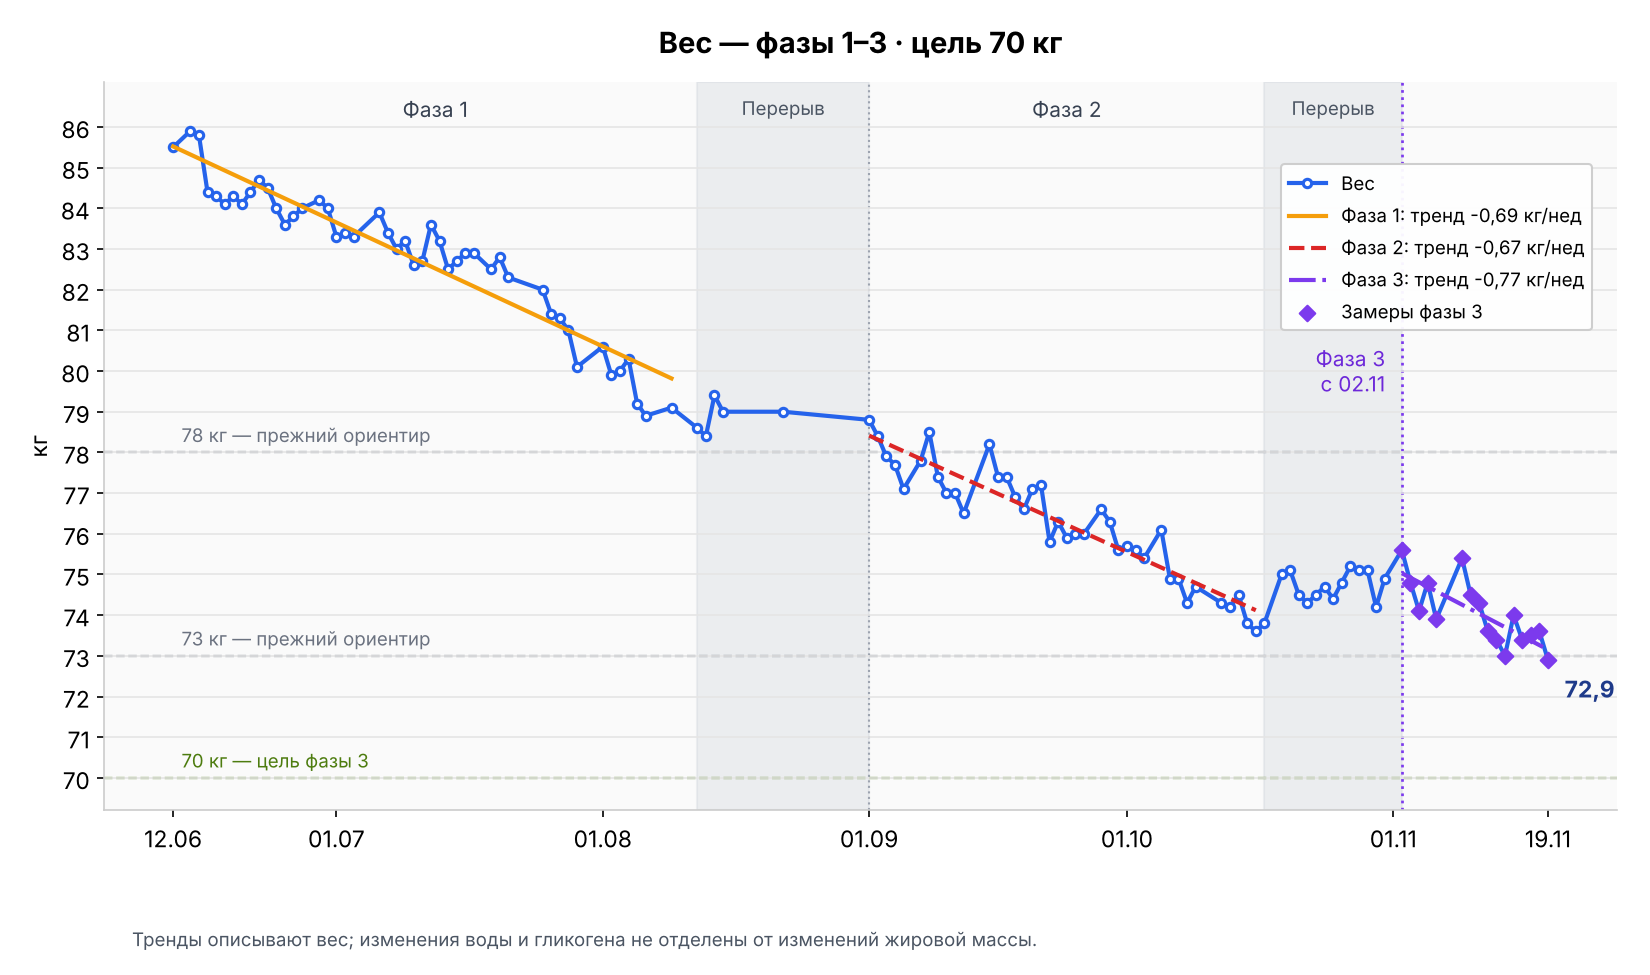
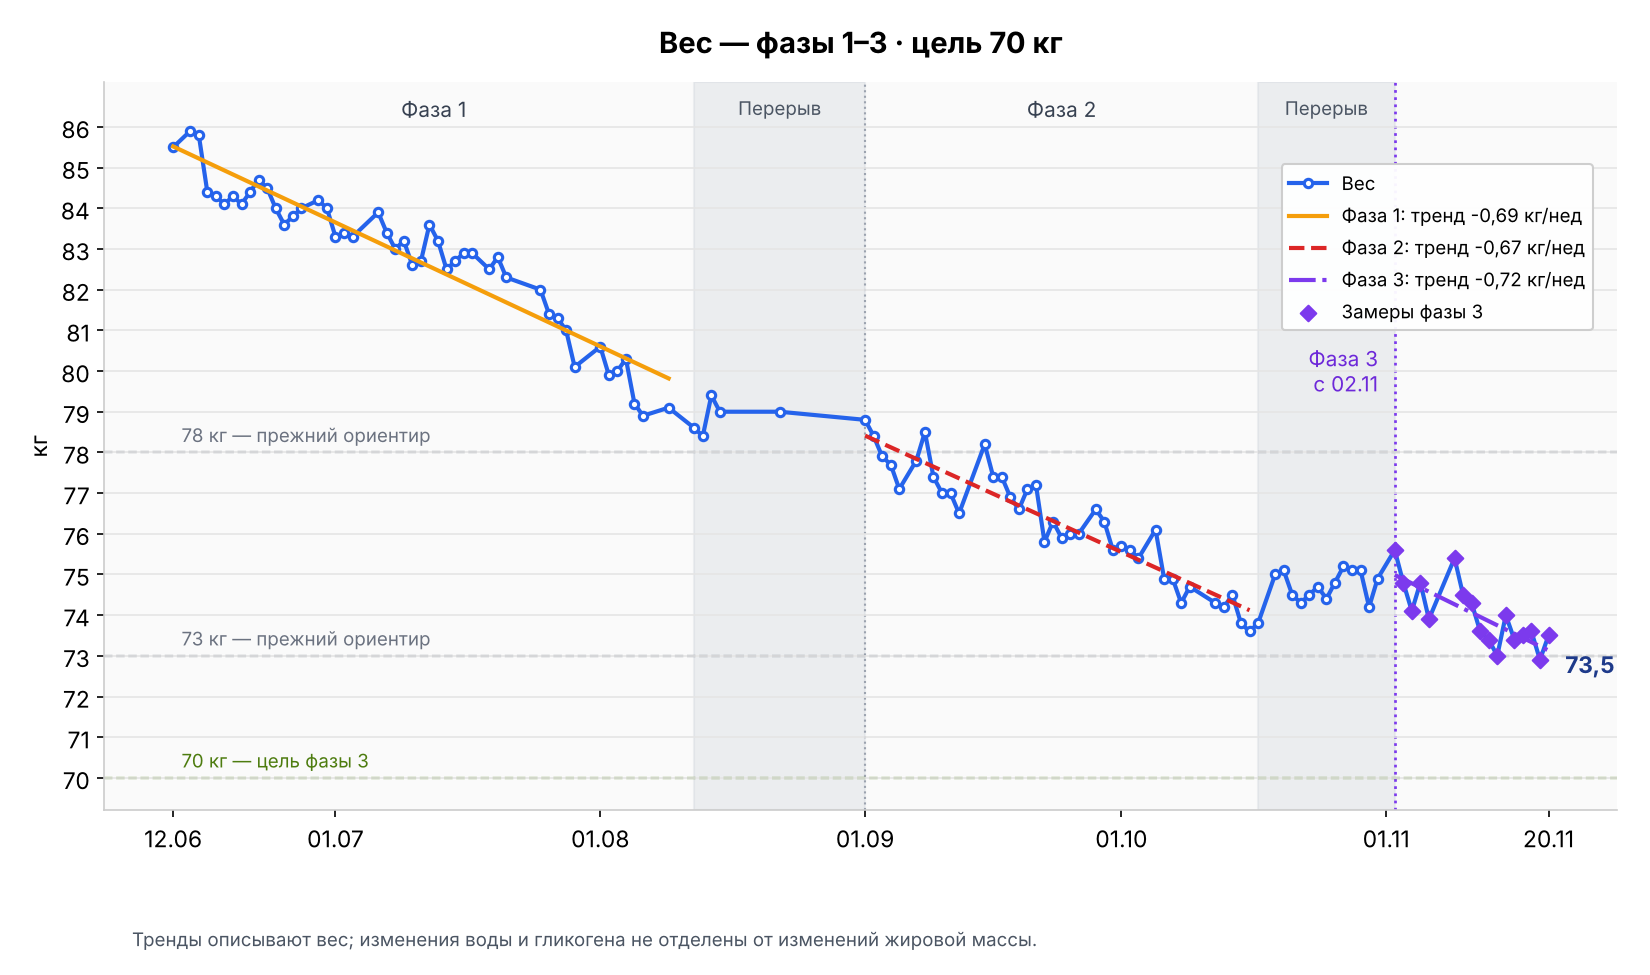
Вес 20.11: 73,5 кг; закрыт день 19.11
+0,6 кг к 19.11 — вода после тренировки и большого объёма еды.
День 19.11 отмечен завершённым (~1902 ккал). Графики перестроены.

Claude-Session: https://claude.ai/code/session_01BcPogZpufV1jxrQv9Sbikk

diff --git a/health/журнал-еды.md b/health/журнал-еды.md
@@ -11,7 +11,7 @@
 
 | Дата | Кратко | Ккал | Белок |
 |---|---|---|---|
-| 19.11 (чт) | фаза 3, день 18 · цель 1900 ккал · утром 72,9 (минимум плана) · 🏋 зал, грудь + бицепс, лёгкая неделя (по 20 повторений) · завтрак мандарины 162 г + яблоки 242 г + сливы 208 г + 2 варёных яйца + варёные брокколи, цветная капуста и морковь 323 г / перекус молоко 1,5% 200 г + мандарины 84 г + сливы 193 г / сливы 200 г + курица с прованскими травами 200 г / обезжиренный творог 174 г / ещё варёные овощи 331 г / молоко 1,5% 150 г / ужин куриное филе 200 г + яблоки 285 г / овощной микс 318 г + ещё 258 г (день идёт) | ~1902＋ | ~179＋ г |
+| 19.11 (чт) | фаза 3, день 18 · цель 1900 ккал · утром 72,9 (минимум плана) · 🏋 зал, грудь + бицепс, лёгкая неделя (по 20 повторений) · завтрак мандарины 162 г + яблоки 242 г + сливы 208 г + 2 варёных яйца + варёные брокколи, цветная капуста и морковь 323 г / перекус молоко 1,5% 200 г + мандарины 84 г + сливы 193 г / сливы 200 г + курица с прованскими травами 200 г / обезжиренный творог 174 г / ещё варёные овощи 331 г / молоко 1,5% 150 г / ужин куриное филе 200 г + яблоки 285 г / овощной микс 318 г + ещё 258 г · день завершён, ровно в цель | ~1902 | ~179 г |
 | 18.11 (ср) | фаза 3, день 17 · цель 1900 ккал · утром 73,6 · [Сбер] завтрак варёная грудка 344 г + дыня 334 г + хрен 1 ч. л. / сливки 10% 20 г + ещё 40 г / [Делимарше] суп из кабачков с тофу + кабачки с морковью и карри + индейка с шалфеем + курица в кокосовом молоке + апельсины и мандарины 294 г / [ВиТ] капучино 300 мл / ужин яблоки 418 г + курица с прованскими травами 200 г + брокколи и цветная капуста 314 г / молоко 1,5% 100 г · день завершён, ровно в цель | ~1898 | ~222 г |
 | 17.11 (вт) | фаза 3, день 16 · цель 1900 ккал · утром 73,5 · 🏋 зал, спина + трицепс, лёгкая неделя цикла (по 20 повторений) · завтрак овощная смесь «Сеул» 350 г + варёные яйца 180 г + обезжиренный творог 179 г + молоко 1,5% 105 г / ещё молоко 1,5% 100 г / обед мандарины 199 г + сливы 82 г + яблоки 238 г + овощная смесь 400 г + курица с прованскими травами 200 г / молоко 1,5% 78 г / ужин курица су-вид 193 г + брокколи и цветная капуста 400 г + яблоки 200 г + апельсины 188 г + 2 варёных яйца / молоко 1,5% 110 г · день завершён, +72 к цели | ~1972 | ~205 г |
 | 16.11 (пн) | фаза 3, день 15 · цель 1900 ккал · утром 73,4 · завтрак яблоки 124 г + мексиканская смесь 400 г + курица с прованскими травами 213 г + апельсин 179 г + греческий йогурт 65 г / молоко 1,5% 46 г / поздний завтрак мандарины 235 г + яблоки 298 г + сливы 211 г / ещё молоко 1,5% 98 г / обед мандарины 254 г + рагу из 8 овощей 400 г + апельсин 207 г + курица с прованскими травами 201 г / ужин мандарины 111 г + апельсины 139 г + яблоки 212 г + сливы 212 г / молоко 1,5% 110 г · день завершён, ровно в цель | ~1903 | ~135 г |
@@ -165,7 +165,7 @@
 
 ## 19 ноября (чт) — фаза 3, день 18 · утром 72,9
 
-День в процессе. **Цель — 1900 ккал** (обычный день). Рабочий ориентир БЖУ: **Б 150 (140–160) / Ж 60 / У 190 г**. Тренировка в зале: грудь + бицепс, лёгкая неделя волнового цикла — детали в [журнале тренировок](тренировки.md).
+День завершён. **Цель — 1900 ккал** (обычный день). Рабочий ориентир БЖУ: **Б 150 (140–160) / Ж 60 / У 190 г**. Тренировка в зале: грудь + бицепс, лёгкая неделя волнового цикла — детали в [журнале тренировок](тренировки.md).
 
 | Приём | Что | Ккал | Б | Ж | У |
 |---|---|---|---|---|---|
@@ -190,7 +190,7 @@
 | | *ужин итого* | *~362* | *~49,9* | *~4,7* | *~27,9* |
 | Дополнительно | овощной микс (брокколи, цветная капуста, морковь, стручковая фасоль) 318 г (~30/100г, Б 2,5 / Ж 0 / У 5,5 — по похожей смеси от 17.11) | ~95 | ~8,0 | 0 | ~17,5 |
 | | ещё овощной микс 258 г (~30/100г, Б 2,5 / Ж 0 / У 5,5 — та же оценка) | ~77 | ~6,5 | 0 | ~14,2 |
-| **Пока за день** | | **~1902** | **~179,2** | **~32,6** | **~220,9** |
+| **Итого** | | **~1902** | **~179,2** | **~32,6** | **~220,9** |
 
 Заметка: очищенные фрукты по прежним справочным значениям: мандарины 162 г (38/0,8/0,2/7,5) — 61,560 ккал / Б 1,296 / Ж 0,324 / У 12,150 г; яблоки 242 г (47/0,4/0,4/9,8) — 113,740 / 0,968 / 0,968 / 23,716; сливы 208 г (46/0,8/0,3/9,6) — 95,680 / 1,664 / 0,624 / 19,968. Яйца варёные 114 г (2 шт.) по прежней оценке 155/12,6/10,6/1,1 — 176,700 / 14,364 / 12,084 / 1,254. Варёные брокколи, цветная капуста и морковь примерно в равных долях 323 г — этикетки нет, взята справочная оценка смеси 31/1,7/0,4/5,5 (брокколи ~35, цветная капуста ~23, морковь ~35 ккал/100 г) — 100,130 / 5,491 / 1,292 / 17,765. Завтрак всего 547,810 ккал / Б 23,783 / Ж 15,292 / У 74,853 г. До цели 1900 ккал осталось 1352,190 ккал; до белка 140–160 г — 116,217–136,217 г; до Ж 60 — 44,708 г; до У 190 — 115,147 г. Перекус: молоко 1,5% 200 г (44,3/3/1,5/4,7) — 88,600 ккал / Б 6,000 / Ж 3,000 / У 9,400 г; мандарины 84 г (38/0,8/0,2/7,5) — 31,920 / 0,672 / 0,168 / 6,300; сливы 193 г (46/0,8/0,3/9,6) — 88,780 / 1,544 / 0,579 / 18,528. Перекус всего 209,300 ккал / Б 8,216 / Ж 3,747 / У 34,228 г. За день 757,110 ккал / Б 31,999 / Ж 19,039 / У 109,081 г. До цели 1900 ккал осталось 1142,890 ккал; до белка 140–160 г — 108,001–128,001 г; до Ж 60 — 40,961 г; до У 190 — 80,919 г. Добавлены сливы 200 г (46/0,8/0,3/9,6) — 92,000 ккал / Б 1,600 / Ж 0,600 / У 19,200 г и курица с прованскими травами 200 г (96,7/19,9/1,9/1) — 193,400 / 39,800 / 3,800 / 2,000; вместе 285,400 ккал / Б 41,400 / Ж 4,400 / У 21,200 г. За день 1042,510 ккал / Б 73,399 / Ж 23,439 / У 130,281 г. До цели 1900 ккал осталось 857,490 ккал; до белка 140–160 г — 66,601–86,601 г; до Ж 60 — 36,561 г; до У 190 — 59,719 г. Добавлен творог обезжиренный 174 г по КБЖУ от 09.11 89,7/18/0,5/3,3 — 156,078 ккал / Б 31,320 / Ж 0,870 / У 5,742 г. За день 1198,588 ккал / Б 104,719 / Ж 24,309 / У 136,023 г. До цели 1900 ккал осталось 701,412 ккал; до белка 140–160 г — 35,281–55,281 г; до Ж 60 — 35,691 г; до У 190 — 53,977 г. Добавлена та же варёная смесь брокколи, цветной капусты и моркови 331 г по оценке 31/1,7/0,4/5,5 — 102,610 ккал / Б 5,627 / Ж 1,324 / У 18,205 г. За день 1301,198 ккал / Б 110,346 / Ж 25,633 / У 154,228 г. До цели 1900 ккал осталось 598,802 ккал; до белка 140–160 г — 29,654–49,654 г; до Ж 60 — 34,367 г; до У 190 — 35,772 г. Добавлено молоко 1,5% 150 г по прежним данным 44,3/3/1,5/4,7 — 66,450 ккал / Б 4,500 / Ж 2,250 / У 7,050 г. За день 1367,648 ккал / Б 114,846 / Ж 27,883 / У 161,278 г. До цели 1900 ккал осталось 532,352 ккал; до белка 140–160 г — 25,154–45,154 г; до Ж 60 — 32,117 г; до У 190 — 28,722 г. Ужин: куриное филе 200 г — пользователь передал Б 24,4 / Ж 1,8 на 100 г без калорий и углеводов; совпадает с продуктом 12.11 (113,8/24,4/1,8), калории взяты оттуда, углеводы — 0: 227,600 ккал / Б 48,800 / Ж 3,600 / У 0; яблоки 285 г (47/0,4/0,4/9,8) — 133,950 / 1,140 / 1,140 / 27,930. Ужин всего 361,550 ккал / Б 49,940 / Ж 4,740 / У 27,930 г. За день 1729,198 ккал / Б 164,786 / Ж 32,623 / У 189,208 г. До цели 1900 ккал осталось 170,802 ккал; белок выше диапазона 140–160 г на 4,786 г; до Ж 60 — 27,377 г; до У 190 — 0,792 г. Добавлен овощной микс (брокколи, цветная капуста, морковь, стручковая фасоль) 318 г — этикетка не передана; взяты КБЖУ похожей смеси от 17.11 (30/2,5/0/5,5): 95,400 ккал / Б 7,950 / Ж 0 / У 17,490 г. За день 1824,598 ккал / Б 172,736 / Ж 32,623 / У 206,698 г. До цели 1900 ккал осталось 75,402 ккал; белок выше диапазона 140–160 г на 12,736 г; до Ж 60 — 27,377 г; углеводы выше ориентира 190 г на 16,698 г. Добавлен ещё овощной микс 258 г по той же оценке 30/2,5/0/5,5 — 77,400 ккал / Б 6,450 / Ж 0 / У 14,190 г. За день 1901,998 ккал / Б 179,186 / Ж 32,623 / У 220,888 г. Цель 1900 ккал превышена на 1,998 ккал; белок выше диапазона на 19,186 г; до Ж 60 — 27,377 г; углеводы выше ориентира на 30,888 г.
 

diff --git a/health/журнал-веса.md b/health/журнал-веса.md
@@ -157,6 +157,7 @@
 | 17 ноября | 73,5 кг | вт; **фаза 3, день 16**. +0,1 кг к предыдущему замеру 16.11 — в пределах шума (накануне ~2,1 кг фруктов и ~0,8 кг овощей, ~70 г клетчатки — объём в ЖКТ); −2,1 кг от старта фазы 3 (75,6 кг, 02.11); −12,0 кг от стартовой оценки 85,5 кг |
 | 18 ноября | 73,6 кг | ср; **фаза 3, день 17**. +0,1 кг к предыдущему замеру 17.11 — шум (накануне тренировка спины и трицепса на 20 повторений, ~1,2 кг овощей и ~1 кг фруктов); −2,0 кг от старта фазы 3 (75,6 кг, 02.11); −11,9 кг от стартовой оценки 85,5 кг. Шаги по словам пользователя — в среднем ~15 000/день |
 | 19 ноября | 72,9 кг | чт; **фаза 3, день 18**. −0,7 кг к предыдущему замеру 18.11; **новый минимум плана** (прежний — 73,0 14.11); −2,7 кг от старта фазы 3 (75,6 кг, 02.11); −12,6 кг от стартовой оценки 85,5 кг. Накануне ~1898 ккал |
+| 20 ноября | 73,5 кг | пт; **фаза 3, день 19**. +0,6 кг к предыдущему замеру 19.11 — вода: накануне тренировка груди и бицепса на 20 повторений (22 подхода, 220 повторений на бицепс), ~1,2 кг овощей и ~1,3 кг фруктов (большой объём в ЖКТ); калории ~1902 — в цель; −2,1 кг от старта фазы 3 (75,6 кг, 02.11); −12,0 кг от стартовой оценки 85,5 кг |
 | 7 ноября | — | сб; **фаза 3, день 6**. Пользователь забыл взвеситься; замер пропущен |
 
 ### График
